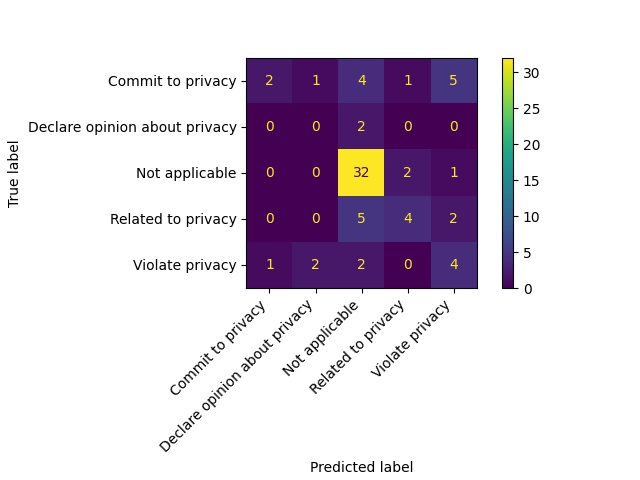
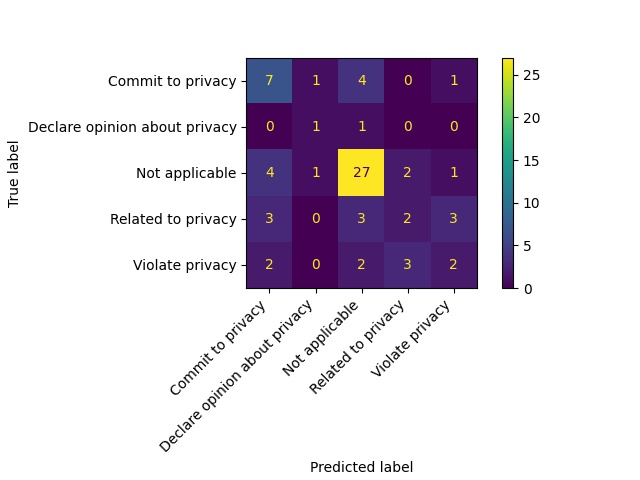
AI classifier configurations: initial + binary word representation + n_estimators 200

diff --git a/AIclassifier.py b/AIclassifier.py
@@ -49,7 +49,7 @@ def create_vectors_list(sents):
         sent_doc = clean_corpus(sent) 
         sent_doc = nlp(sent_doc)
         sent_doc = reconstruct_hyphenated_words(sent_doc)
-        sent_doc = [token.text for token in sent_doc if not token.is_space if not token.is_punct if not token.text in stopwords.words()]
+        sent_doc = [token.text for token in sent_doc if not token.is_space if not token.is_punct] # if not token.text in stopwords.words()]
         sent_tokens_list = []
         sent_vector = []
         for token in sent_doc:  
@@ -77,9 +77,8 @@ corpus = ' '.join(sents_train)
 corpus = clean_corpus(corpus) 
 train_doc = nlp(corpus)
 train_doc = reconstruct_hyphenated_words(train_doc)
-tokens = [token.text for token in train_doc if not token.is_space if not token.is_punct if not token.text in stopwords.words()] 
-# FLAG: SHOULD I REMOVE STOPWORDS, LITTLE SQUARE, SMTH ELSE AS WELL? 
-# I THINK SO, BUT LET'S COUNT IT AN EXPERIMENT, SO REPORT THE MEASURES BEFORE MAKING THESE CHANGES
+tokens = [token.text for token in train_doc if not token.is_space if not token.is_punct] # if not token.text in stopwords.words()] 
+# FLAG: As extra parameters think of removing  LITTLE SQUARE, SMTH ELSE AS WELL? 
 
 word_freq = Counter(tokens)
 #print(word_freq)
@@ -137,7 +136,7 @@ dev_labels_primary = create_labels_array(labels_dev)
 # CLASSIFIER
 
 # Configurations
-adaclassifier = AdaBoostClassifier(n_estimators=50, learning_rate=1) # provare 200, 300
+adaclassifier = AdaBoostClassifier(n_estimators=200, learning_rate=1) # provare 200, 300
 
 # FLAG - CHECK WHICH CONFIGURATIONS SHOULD BE HERE - checked
 
